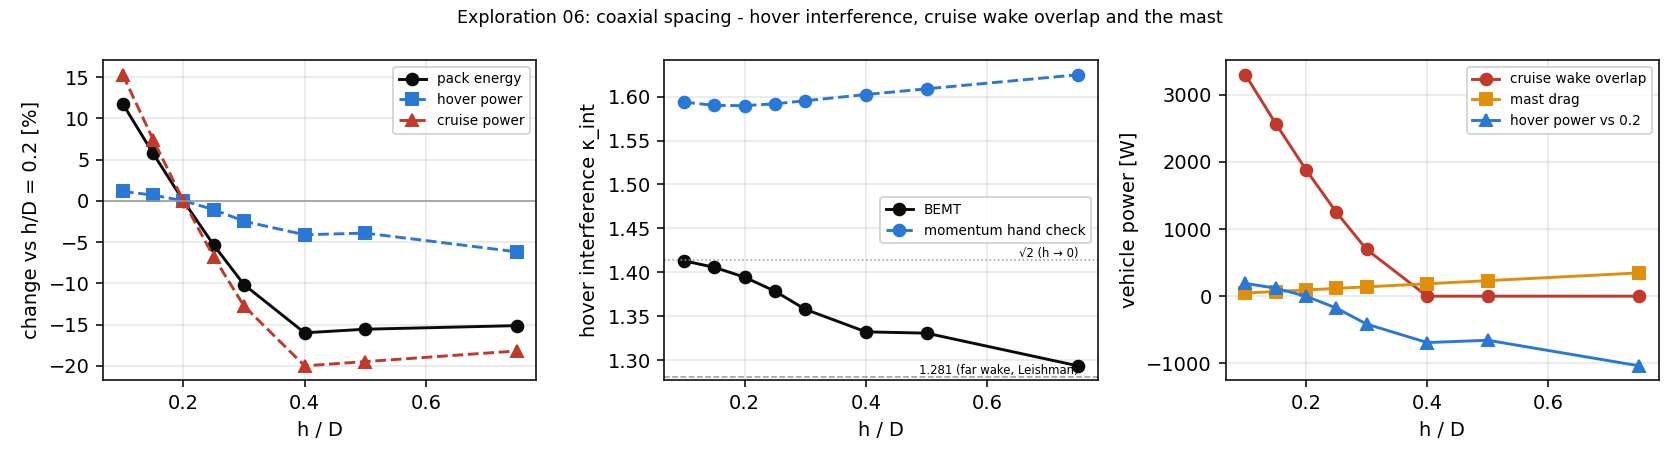
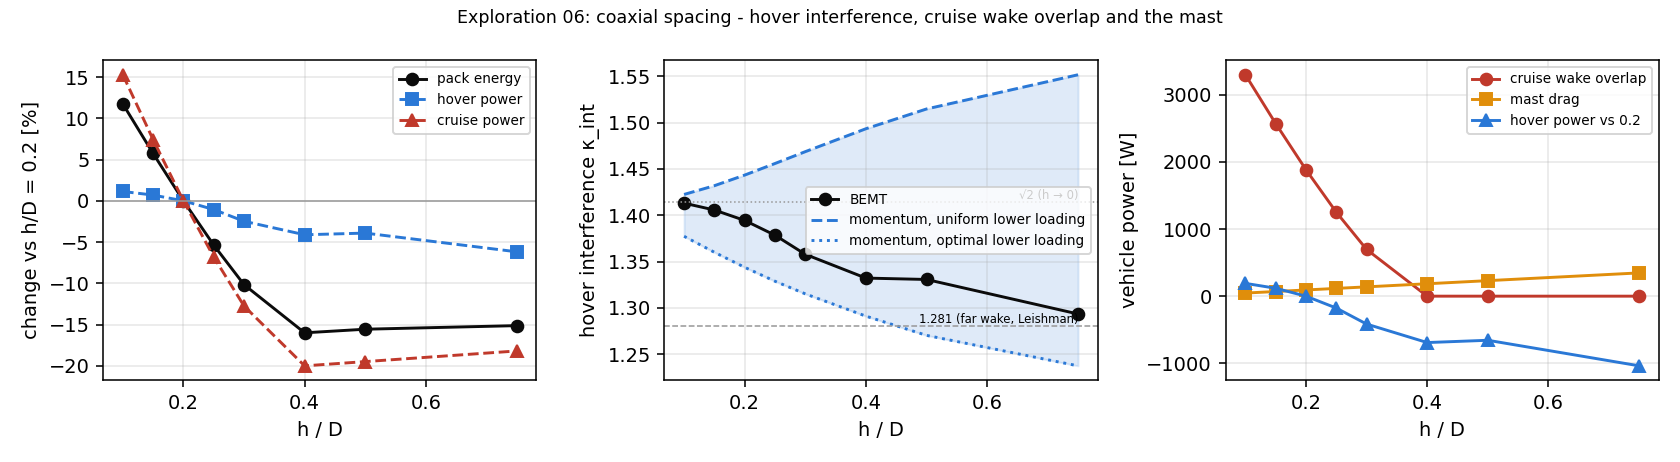
Exploration 06 plot: two-region momentum bounds on hover interference

diff --git a/Props/01_54x18_Composite/src/explore/e06_coax_spacing.py b/Props/01_54x18_Composite/src/explore/e06_coax_spacing.py
@@ -120,7 +120,12 @@ def plot(ok, ref):
     axs[0].plot(hd, [100 * (r["cruise_w"] / ref["cruise_w"] - 1) for r in ok], "^--", color="#c0392b", label="cruise power")
     axs[0].axhline(0, color="#999", lw=.8); axs[0].set_xlabel("h / D"); axs[0].set_ylabel("change vs h/D = 0.2 [%]"); axs[0].legend(fontsize=7); axs[0].grid(alpha=.3)
     axs[1].plot(hd, [r["kappa_bemt"] for r in ok], "o-", color="#0b0b0b", label="BEMT")
-    axs[1].plot(hd, [r["kappa_hand"] for r in ok], "o--", color="#2a78d6", label="momentum hand check")
+    hp = os.path.join(OUT, "e06_hand_check.json")
+    if os.path.exists(hp):          # two-region momentum bounds (e06_hand_check.py); run that script, then plot() again
+        hcr = json.load(open(hp))["rows"]
+        axs[1].fill_between([q["h_over_D"] for q in hcr], [q["kappa_optimal"] for q in hcr], [q["kappa_uniform"] for q in hcr], color="#2a78d6", alpha=.15)
+        axs[1].plot([q["h_over_D"] for q in hcr], [q["kappa_uniform"] for q in hcr], "--", color="#2a78d6", label="momentum, uniform lower loading")
+        axs[1].plot([q["h_over_D"] for q in hcr], [q["kappa_optimal"] for q in hcr], ":", color="#2a78d6", label="momentum, optimal lower loading")
     axs[1].axhline(math.sqrt(2), color="#999", ls=":", lw=.8); axs[1].axhline(1.2808, color="#999", ls="--", lw=.8)
     axs[1].text(hd[-1], math.sqrt(2), "√2 (h → 0)", fontsize=6, ha="right", va="bottom"); axs[1].text(hd[-1], 1.2808, "1.281 (far wake, Leishman)", fontsize=6, ha="right", va="bottom")
     axs[1].set_xlabel("h / D"); axs[1].set_ylabel("hover interference κ_int"); axs[1].legend(fontsize=7); axs[1].grid(alpha=.3)
@@ -133,4 +138,8 @@ def plot(ok, ref):
 
 
 if __name__ == "__main__":
-    run()
+    if sys.argv[1:] == ["plot"]:      # redraw from the saved results
+        rows = [r for r in json.load(open(os.path.join(OUT, "e06_coax_spacing.json")))["rows"] if "error" not in r]
+        plot(rows, next(r for r in rows if r["h_over_D"] == H_REF))
+    else:
+        run()
